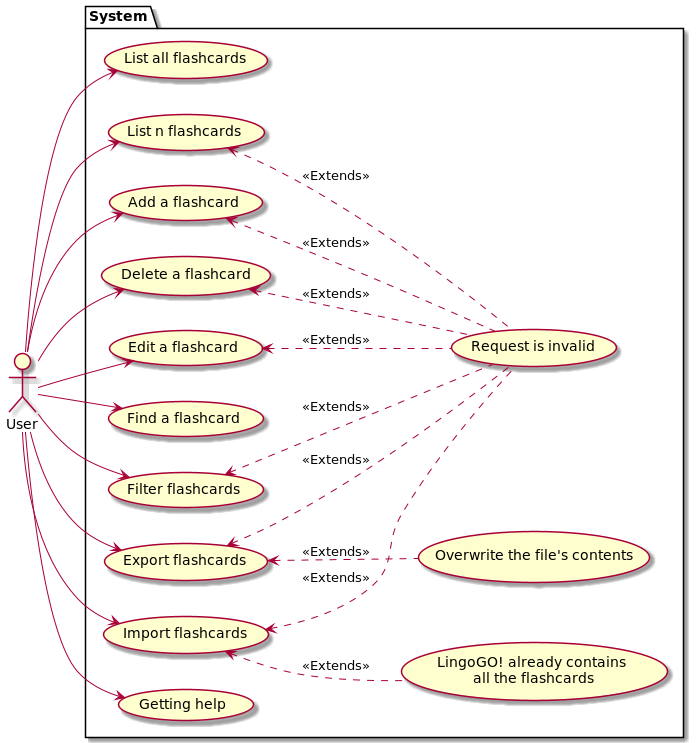
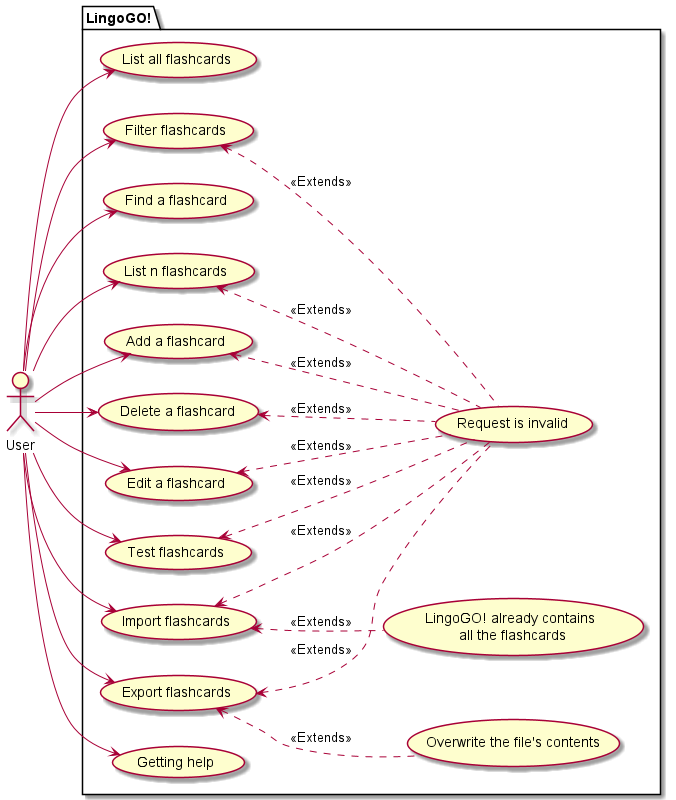
Edit use case diagram and preamble

diff --git a/docs/DeveloperGuide.md b/docs/DeveloperGuide.md
@@ -517,7 +517,7 @@ University students
 
 ## Appendix C: Use Cases
 
-Below is a use case diagram summarizing the main use cases of the app.
+Below is a *use case diagram* summarizing the **main use cases** of the app. Note that this diagram does not show all use cases, and does not contain the full details of each use case.
 
 ![Use Case Diagram](images/UseCaseDiagram.png)
 
